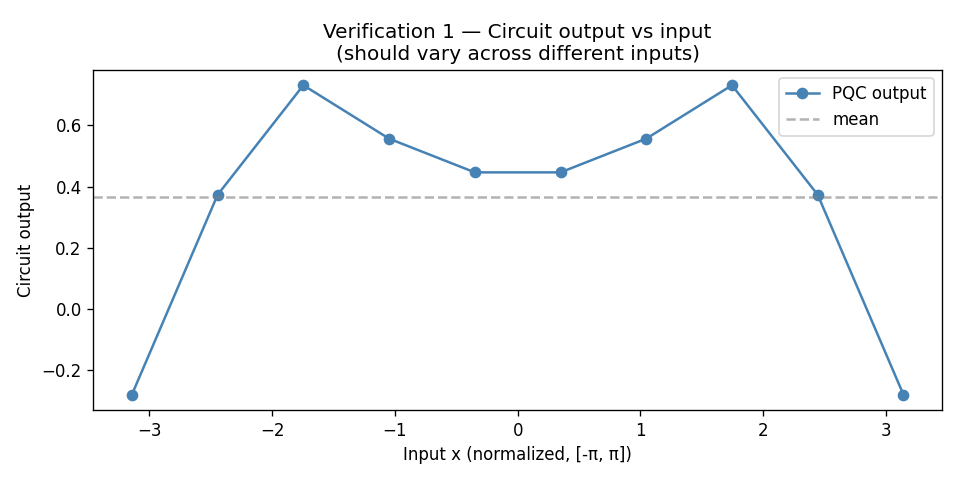
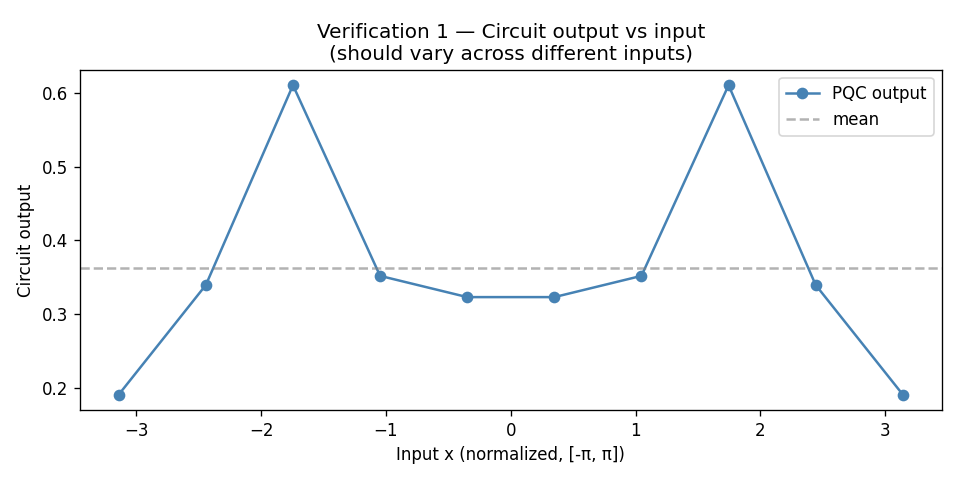
Remove unused configuration files and update .gitignore to exclude .claude and .vscode directories. Also, edited data generations so it isn't deterministic and change base frequency to 1.0 to decrease amplitude capacity of the Fourier Transform

diff --git a/src/run_experiments.py b/src/run_experiments.py
@@ -75,13 +75,12 @@ METHOD_CONFIGS: dict[int, dict] = {
         "n_test": 100,
         "pricing": "pdf_fourier",
         "use_real_method_I": True,  # train on analytical PDF labels (paper Sec. 3.2.1)
-        # base_frecuency=1.0 → circuit Fourier period 2π, domain [-π, π].
-        # For the PDF (Method I) this works well: the lognormal PDF is smooth and
-        # decays to near-zero at the boundaries of [-π, π], so Gibbs oscillations
-        # are negligible (unlike the CDF in Method II which has a step-function edge).
-        # Paper Figs 2-3 show the difference is minor for the PDF case.
-        "base_frecuency": 1.0,
-        "eval_interval": (-np.pi, np.pi),  # same as training domain (no extended evaluation needed)
+        # base_frecuency=0.5 → circuit Fourier period 4π, natural domain [-2π, 2π].
+        # Training data is in [-π, π] (center half of the circuit's range), matching
+        # the paper: "the model is trained in [−2π, 2π] with data rescaled to [−π, π]"
+        # (paper Sec. 3.2). This is identical to Method II's encoding choice.
+        "base_frecuency": 0.5,
+        "eval_interval": (-np.pi, np.pi),  # paper Sec. 3.2.1: DFT extracted in [-π, π]
     },
     2: {
         "name": "method_II",
@@ -176,6 +175,7 @@ def run_single(
     rep: int,
     device: str,
     results_dir: pathlib.Path,
+    no_save: bool = False,
 ) -> dict:
     """Train one configuration and return a result dict."""
     cfg = METHOD_CONFIGS[method_id]
@@ -188,7 +188,7 @@ def run_single(
     if use_real:
         # Bifurcation 1: analytical grid + PDF labels (paper Sec. 3.2.1)
         train_x, pdf_labels, pdf_deriv_labels, x_min_raw, x_max_raw = generate_method_I_data(
-            S0=BS_S0, K=K, r=BS_R, T=BS_T, sigma=BS_SIGMA, n_points=n_data
+            S0=BS_S0, K=K, r=BS_R, T=BS_T, sigma=BS_SIGMA, n_points=n_data, seed=seed
         )
         train_y = pdf_labels.reshape(-1, 1)
         test_x, test_pdf_labels, _, _, _ = generate_method_I_data(
@@ -274,31 +274,31 @@ def run_single(
     # ── 5. Output folder ──────────────────────────────────────────────────────
     run_name = f"M{method_id}_K{int(K)}_arch{n_qubits}x{n_layers}_data{n_data}_rep{rep:02d}"
     run_folder = results_dir / cfg["name"] / run_name
-    run_folder.mkdir(parents=True, exist_ok=True)
-
-    (run_folder / "config.json").write_text(
-        json.dumps(
-            dict(
-                method=method_id,
-                K=K,
-                n_qubits=n_qubits,
-                n_layers=n_layers,
-                n_data=n_data,
-                rep=rep,
-                seed=seed,
-                lr=cfg["lr"],
-                alpha_0=cfg["alpha_0"],
-                alpha_1=cfg["alpha_1"],
-                epochs=EPOCHS,
-                device=device,
-                S0=BS_S0,
-                r=BS_R,
-                T=BS_T,
-                sigma=BS_SIGMA,
-            ),
-            indent=2,
+    if not no_save:
+        run_folder.mkdir(parents=True, exist_ok=True)
+        (run_folder / "config.json").write_text(
+            json.dumps(
+                dict(
+                    method=method_id,
+                    K=K,
+                    n_qubits=n_qubits,
+                    n_layers=n_layers,
+                    n_data=n_data,
+                    rep=rep,
+                    seed=seed,
+                    lr=cfg["lr"],
+                    alpha_0=cfg["alpha_0"],
+                    alpha_1=cfg["alpha_1"],
+                    epochs=EPOCHS,
+                    device=device,
+                    S0=BS_S0,
+                    r=BS_R,
+                    T=BS_T,
+                    sigma=BS_SIGMA,
+                ),
+                indent=2,
+            )
         )
-    )
 
     # ── 6. Train ──────────────────────────────────────────────────────────────
     final_weights = adam_optimizer_loop(
@@ -314,14 +314,15 @@ def run_single(
         tolerance=-1e30,  # never trigger early stopping
         n_counts_tolerance=EPOCHS + 1,
         print_step=PRINT_STEP,
-        file_to_save=str(run_folder / "evolution.csv"),
+        file_to_save=None if no_save else str(run_folder / "evolution.csv"),
         progress_bar=True,
         progress_desc=run_name,
         progress_leave=False,
     )
 
     # ── 7. Save final weights ─────────────────────────────────────────────────
-    np.save(run_folder / "final_weights.npy", np.array(final_weights))
+    if not no_save:
+        np.save(run_folder / "final_weights.npy", np.array(final_weights))
 
     # ── 8. Option pricing ─────────────────────────────────────────────────────
     artifacts = {"workflow_cfg": workflow_cfg}
@@ -370,7 +371,8 @@ def run_single(
         rel_error=rel_err,
         final_mse=final_mse,
     )
-    pd.DataFrame([result]).to_csv(run_folder / "result.csv", sep=";", index=False)
+    if not no_save:
+        pd.DataFrame([result]).to_csv(run_folder / "result.csv", sep=";", index=False)
 
     print(
         f"  → BS={bs_price:.4f}  Est={est_price:.4f}  AbsErr={abs_err:.4f}  MSE={final_mse:.2e}",
@@ -439,6 +441,11 @@ def main():
             "If omitted all dataset sizes in the method config are used."
         ),
     )
+    parser.add_argument(
+        "--no_save",
+        action="store_true",
+        help="Skip all file output (CSVs, weights, plots). Useful for smoke tests.",
+    )
     args = parser.parse_args()
 
     # Parse --architectures filter into a set of (n_qubits, n_layers) tuples
@@ -454,7 +461,8 @@ def main():
     dataset_filter: set | None = None if args.datasets is None else set(args.datasets)
 
     results_dir = pathlib.Path(args.results_dir)
-    results_dir.mkdir(parents=True, exist_ok=True)
+    if not args.no_save:
+        results_dir.mkdir(parents=True, exist_ok=True)
 
     # Build experiment grid
     experiments: list[dict] = []
@@ -497,7 +505,7 @@ def main():
             flush=True,
         )
         try:
-            result = run_single(**exp, device=args.device, results_dir=results_dir)
+            result = run_single(**exp, device=args.device, results_dir=results_dir, no_save=args.no_save)
         except Exception as exc:
             print(f"  ERROR: {exc}", flush=True)
             traceback.print_exc()
@@ -505,7 +513,8 @@ def main():
 
         all_results.append(result)
         # Incremental save after every run
-        pd.DataFrame(all_results).to_csv(master_csv, sep=";", index=False)
+        if not args.no_save:
+            pd.DataFrame(all_results).to_csv(master_csv, sep=";", index=False)
 
     elapsed = (datetime.now() - t_start).total_seconds()
     print(f"\n{'=' * 60}")

diff --git a/src/qml4var/data_utils.py b/src/qml4var/data_utils.py
@@ -247,26 +247,28 @@ def generate_method_I_data(
     T: float,
     sigma: float,
     n_points: int,
+    seed: int | None = None,
 ) -> tuple:
     """
-    Generate Method I real dataset with analytical bounds and PDF labels (paper Sec. 3.2.1).
-
-    Unlike `simulate_black_scholes_data_rescaled`, this uses analytical bounds
-    (mu ± 3*sigma_T) so they are fixed and reproducible regardless of seed.
-    The training grid is a uniform grid in [-π, π] (not random samples).
+    Generate Method I dataset with analytical bounds and PDF labels (paper Sec. 3.2.1).
 
     Parameters
     ----------
     S0, K, r, T, sigma : Black-Scholes parameters
-    n_points            : number of grid points
+    n_points            : number of points
+    seed                : if provided, draws stochastic samples from the lognormal
+                          distribution — matching the paper's labeled dataset
+                          T = {(xi, yi) ∈ X × Y ~ P(x, y)}.
+                          If None, falls back to a uniform grid, which is suitable
+                          for the test set (consistent across calls).
 
     Returns
     -------
-    grid          : np.ndarray, shape (n_points, 1), uniform grid in [-π, π]
-    pdf_vals      : np.ndarray, shape (n_points,), PDF in rescaled space
-    pdf_deriv     : np.ndarray, shape (n_points,), d(PDF)/du in rescaled space
-    a             : float, left bound in log-moneyness space
-    b             : float, right bound in log-moneyness space
+    grid      : np.ndarray, shape (n_points, 1), points in [-π, π]
+    pdf_vals  : np.ndarray, shape (n_points,), PDF in rescaled [-π, π] space
+    pdf_deriv : np.ndarray, shape (n_points,), d(PDF)/du in rescaled space
+    a         : float, left bound in log-moneyness space
+    b         : float, right bound in log-moneyness space
     """
     # Analytical BS parameters for log(S_T/K) ~ N(mu, sigma_T^2)
     mu = np.log(S0 / K) + (r - 0.5 * sigma**2) * T
@@ -276,8 +278,19 @@ def generate_method_I_data(
     a = mu - 3.0 * sigma_T
     b = mu + 3.0 * sigma_T
 
-    # Uniform grid in [-π, π] — the full circuit domain with base_frecuency=1.0.
-    grid = np.linspace(-np.pi, np.pi, n_points)
+    if seed is not None:
+        # Stochastic samples drawn from the lognormal distribution, rescaled to
+        # [-π, π] — paper: T = {(xi, yi) ~ P(x, y)}.  Sorted for reproducibility
+        # and to match the sorted order expected by downstream plotting utilities.
+        _, u_t, _, _ = simulate_black_scholes_data_rescaled(
+            S0_=S0, r_=r, T_=T, sigma_=sigma, K_=K,
+            n_points=n_points, seed=seed,
+        )
+        grid = np.sort(u_t.reshape(-1))
+    else:
+        # Fixed uniform grid — used for the test set so evaluation is deterministic
+        # and comparable across repetitions and configurations.
+        grid = np.linspace(-np.pi, np.pi, n_points)
 
     # Labels are PDF and PDF-derivative in [-π, π] space.
     # Passing 2*grid (∈ [-2π, 2π]) maps to x ∈ [a, b] via generate_method_I_labels'
